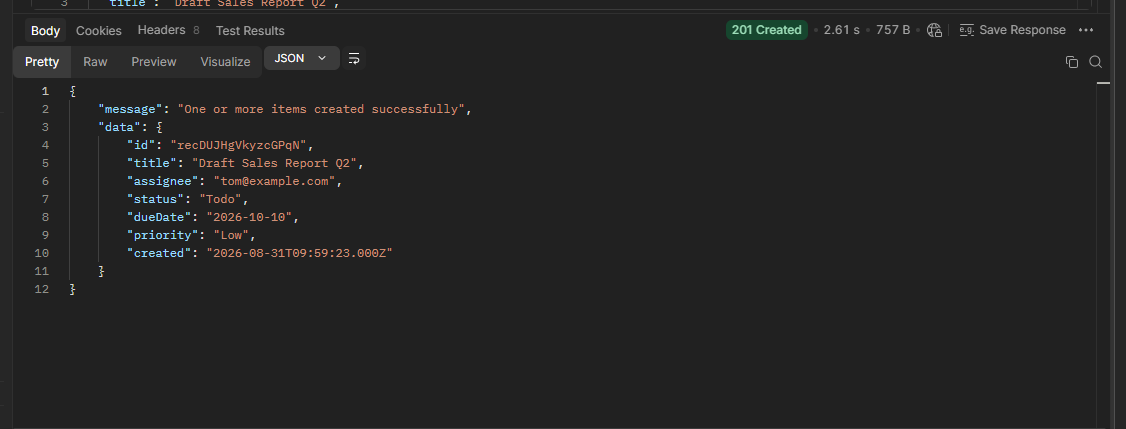
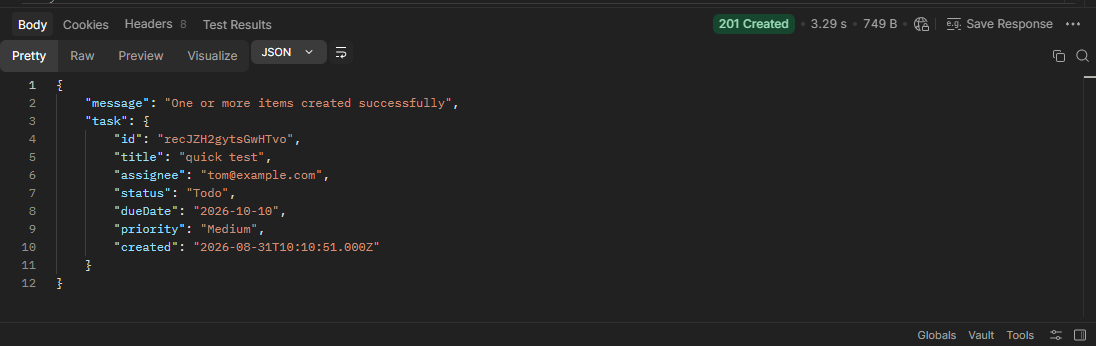
user guide draft 3

diff --git a/projects/01-task-manager/user-guide.md b/projects/01-task-manager/user-guide.md
@@ -7,7 +7,7 @@ database record on Airtable. A request must contain a valid action field such as
 
 ### Authentication Note
 
-This workflow uses `Header Auth` for authentication. You will need a valid x-api-key attached to the Headers. You can reach out to me if you intend testing my personal instance.
+This workflow uses `Header Auth` for authentication. You will need a valid x-api-key attached to the Headers (I generated one from here; `https://it-tools.tech/token-generator`). You can reach out to me if you intend testing my personal instance.
 
 ## What triggers it
 
